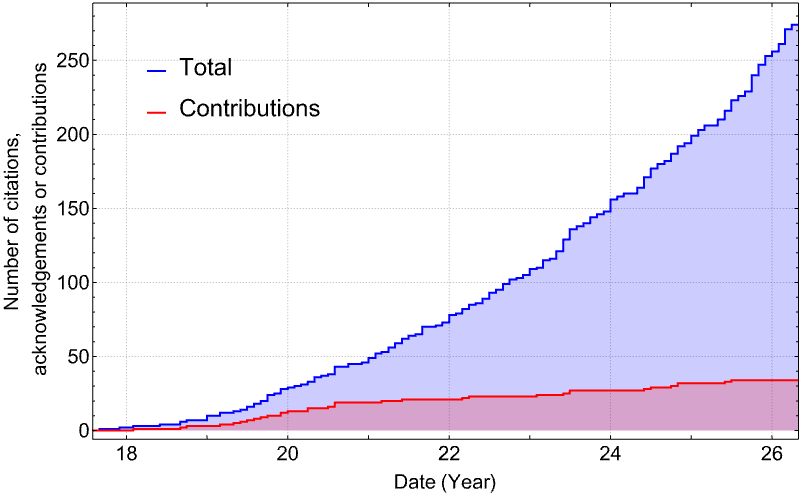
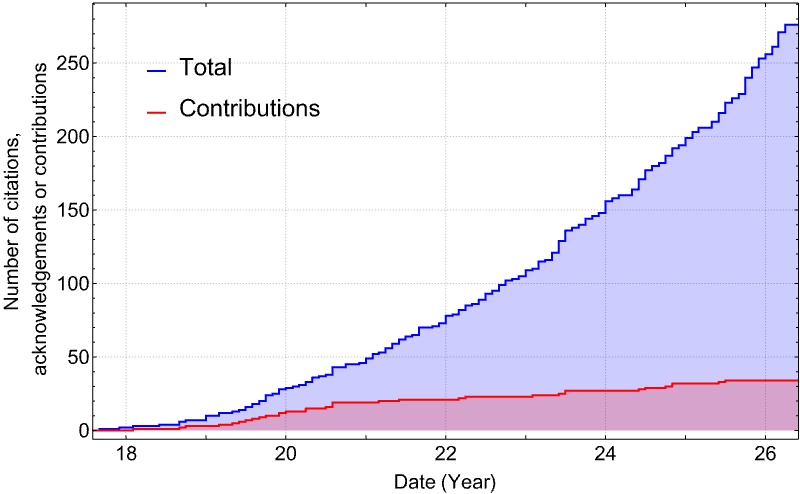
Add paper the cites the Toolkit

diff --git a/users.md b/users.md
@@ -19,6 +19,10 @@ The graph below show the accumulated citations to the Toolkit over time. The blu
 
 Below is a list of research papers that have used or extended the Toolkit. Papers that have contributed code or data to the Toolkit have a (*) after them.
 
+276\. "Gravitational waves of extreme-mass-ratio inspirals in a rotating black hole with Dehnen dark matter halo", Kun Meng, Shao-Jun Zhang, Nan Yang, [arXiv:2604.24413](https://arxiv.org/abs/2604.24413)
+
+275\. "Physics informed operator learning of parameter dependent spectra", Haohao Gu, Sensen He, Hanlin Song, Bo Liang, Zhenwei Lyu, Xiaoguang Hu, Minghui Du, Peng Xu, Bo-Qiang Ma, [arXiv:2604.23625](https://arxiv.org/abs/2604.23625)
+
 274\. "Precision tests of analytical tail-term approximations for radiation reaction in Schwarzschild spacetime", Bakhtinur Juraev, Arman Tursunov, Zdeněk Stuchlík, Martin Kološ, Dmitri V. Gal'tsov, [arXiv:2604.13684](https://arxiv.org/abs/2604.13684)
 
 273\. "Relativistic signatures of scalar dark matter in extreme-mass-ratio inspirals", Robrecht Keijzer, Simon Maenaut, Henri Inchauspé, Thomas Hertog, [arXiv:2604.11893](https://arxiv.org/abs/2604.11893)